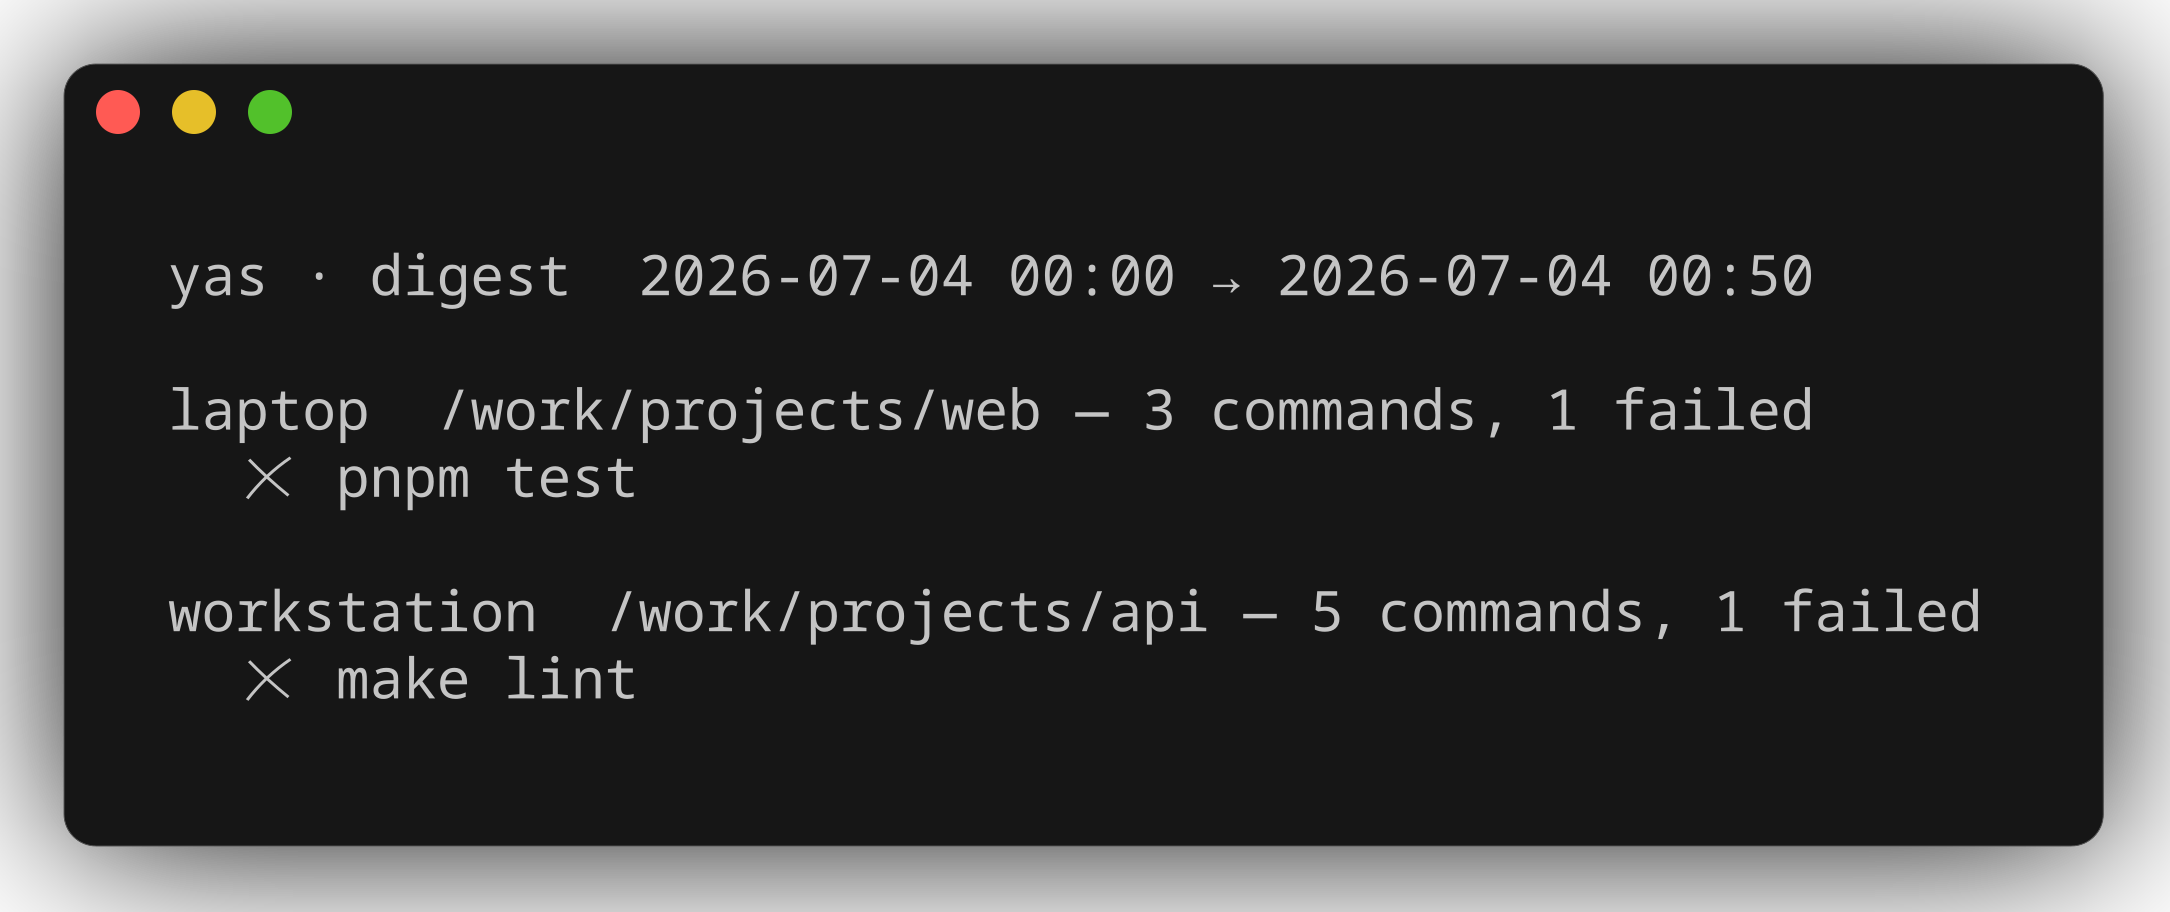
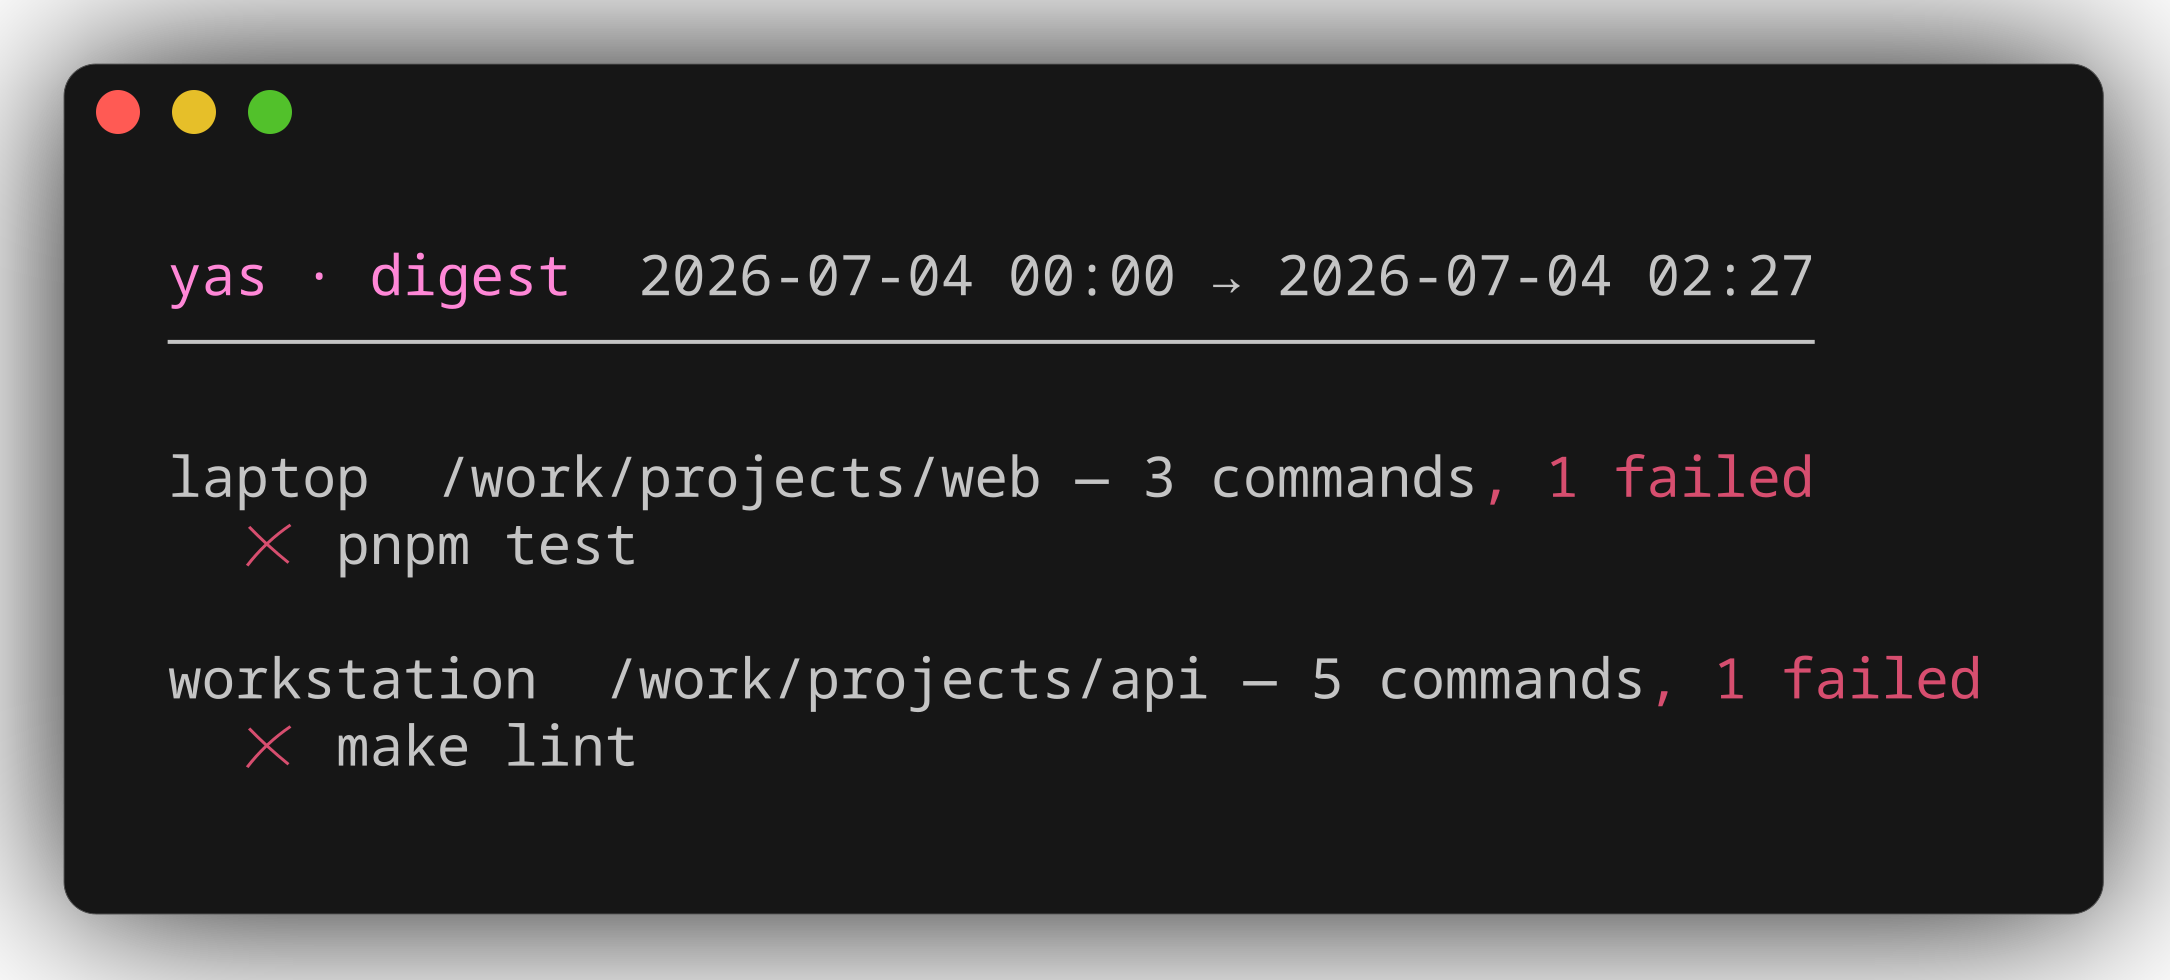
Colorize yas digest (red failures, accented title); README: MCP is shipped

diff --git a/cmd/yas/digest.go b/cmd/yas/digest.go
@@ -8,7 +8,10 @@ import (
 	"io"
 	"os"
 	"sort"
+	"strings"
 	"time"
+
+	"github.com/charmbracelet/lipgloss"
 
 	"github.com/mjacobs/yas/internal/record"
 	"github.com/mjacobs/yas/internal/store"
@@ -175,11 +178,12 @@ type digestGroupWire struct {
 }
 
 // renderDigest writes d to w: the JSON contract (asJSON) or a human summary.
-func renderDigest(w io.Writer, d Digest, asJSON bool) error {
+// styles color the human summary; it is ignored for JSON.
+func renderDigest(w io.Writer, d Digest, asJSON bool, styles cliStyles) error {
 	if asJSON {
 		return renderDigestJSON(w, d)
 	}
-	return renderDigestHuman(w, d)
+	return renderDigestHuman(w, d, styles)
 }
 
 // renderDigestJSON emits the digest envelope. Non-nil slices are built
@@ -210,27 +214,37 @@ func renderDigestJSON(w io.Writer, d Digest) error {
 
 // renderDigestHuman writes a readable grouped summary: a window header, then one
 // block per (host, cwd) with its count and (when any) failure count and the
-// sampled failing commands. An empty window prints a friendly line.
-func renderDigestHuman(w io.Writer, d Digest) error {
+// sampled failing commands. With color on it accents the title, dims the
+// path/counts, reds the failures, and adds a rule under the title; with color
+// off the output is byte-for-byte the plain text (every style is a passthrough
+// and the rule is omitted). An empty window prints a friendly line.
+func renderDigestHuman(w io.Writer, d Digest, styles cliStyles) error {
 	since := d.Since.Format(digestTimeLayout)
 	until := d.Until.Format(digestTimeLayout)
 	if len(d.Groups) == 0 {
 		_, err := fmt.Fprintf(w, "yas digest: no commands from %s to %s\n", since, until)
 		return err
 	}
-	if _, err := fmt.Fprintf(w, "yas · digest  %s → %s\n", since, until); err != nil {
+	title := styles.accent.Render("yas · digest") + "  " + styles.dim.Render(since+" → "+until)
+	if _, err := fmt.Fprintln(w, title); err != nil {
 		return err
 	}
+	if styles.color {
+		if _, err := fmt.Fprintln(w, styles.dim.Render(strings.Repeat("─", lipgloss.Width(title)))); err != nil {
+			return err
+		}
+	}
 	for _, g := range d.Groups {
-		line := fmt.Sprintf("\n%s  %s — %d %s", g.Host, g.CWD, g.Count, plural(g.Count, "command", "commands"))
+		meta := styles.dim.Render(fmt.Sprintf("%s — %d %s", g.CWD, g.Count, plural(g.Count, "command", "commands")))
+		line := "\n" + g.Host + "  " + meta
 		if g.Failures > 0 {
-			line += fmt.Sprintf(", %d failed", g.Failures)
+			line += styles.fail.Render(fmt.Sprintf(", %d failed", g.Failures))
 		}
 		if _, err := fmt.Fprintln(w, line); err != nil {
 			return err
 		}
 		for _, c := range g.FailedCommands {
-			if _, err := fmt.Fprintf(w, "  ✗ %s\n", c); err != nil {
+			if _, err := fmt.Fprintf(w, "  %s %s\n", styles.fail.Render("✗"), c); err != nil {
 				return err
 			}
 		}
@@ -241,35 +255,36 @@ func renderDigestHuman(w io.Writer, d Digest) error {
 // parseDigestArgs parses `yas digest` flags against now: --since/--until
 // (RFC3339) and --json. The default window is today — local midnight of now
 // through now. It rejects an inverted window and any stray positional argument.
-func parseDigestArgs(args []string, now time.Time) (since, until time.Time, asJSON bool, err error) {
+func parseDigestArgs(args []string, now time.Time) (since, until time.Time, asJSON, noColor bool, err error) {
 	fs := flag.NewFlagSet("digest", flag.ContinueOnError)
 	fs.SetOutput(io.Discard)
 	sinceStr := fs.String("since", "", "window start, inclusive (RFC3339); default: local midnight today")
 	untilStr := fs.String("until", "", "window end, exclusive (RFC3339); default: now")
 	jsonOut := fs.Bool("json", false, "emit the JSON digest contract instead of the human summary")
+	noColorOut := fs.Bool("no-color", false, "disable colorized output")
 	if perr := fs.Parse(args); perr != nil {
-		return time.Time{}, time.Time{}, false, perr
+		return time.Time{}, time.Time{}, false, false, perr
 	}
 	if fs.NArg() > 0 {
-		return time.Time{}, time.Time{}, false, fmt.Errorf("digest takes no positional arguments; got %q", fs.Arg(0))
+		return time.Time{}, time.Time{}, false, false, fmt.Errorf("digest takes no positional arguments; got %q", fs.Arg(0))
 	}
 
 	since = startOfDay(now)
 	if *sinceStr != "" {
 		if since, err = time.Parse(time.RFC3339, *sinceStr); err != nil {
-			return time.Time{}, time.Time{}, false, fmt.Errorf("invalid --since %q: want RFC3339 (e.g. 2006-01-02T15:04:05Z)", *sinceStr)
+			return time.Time{}, time.Time{}, false, false, fmt.Errorf("invalid --since %q: want RFC3339 (e.g. 2006-01-02T15:04:05Z)", *sinceStr)
 		}
 	}
 	until = now
 	if *untilStr != "" {
 		if until, err = time.Parse(time.RFC3339, *untilStr); err != nil {
-			return time.Time{}, time.Time{}, false, fmt.Errorf("invalid --until %q: want RFC3339 (e.g. 2006-01-02T15:04:05Z)", *untilStr)
+			return time.Time{}, time.Time{}, false, false, fmt.Errorf("invalid --until %q: want RFC3339 (e.g. 2006-01-02T15:04:05Z)", *untilStr)
 		}
 	}
 	if until.Before(since) {
-		return time.Time{}, time.Time{}, false, fmt.Errorf("--until %s is before --since %s", until.Format(time.RFC3339), since.Format(time.RFC3339))
+		return time.Time{}, time.Time{}, false, false, fmt.Errorf("--until %s is before --since %s", until.Format(time.RFC3339), since.Format(time.RFC3339))
 	}
-	return since, until, *jsonOut, nil
+	return since, until, *jsonOut, *noColorOut, nil
 }
 
 // startOfDay returns local midnight of t (in t's own location).
@@ -282,11 +297,12 @@ func startOfDay(t time.Time) time.Time {
 // the window from the local replica (like the other CLI commands), builds the
 // deterministic per-(host, cwd) digest, and renders it.
 func cmdDigest(args []string) {
-	since, until, asJSON, err := parseDigestArgs(args, time.Now())
+	since, until, asJSON, noColor, err := parseDigestArgs(args, time.Now())
 	if err != nil {
 		fmt.Fprintln(os.Stderr, "yas digest:", err)
 		os.Exit(2)
 	}
+	styles := newCLIStyles(!noColor && colorTerminal(os.Stdout))
 	st, _, closeStore := openStore()
 	defer closeStore()
 
@@ -302,7 +318,7 @@ func cmdDigest(args []string) {
 		fmt.Fprintln(os.Stderr, "yas digest:", err)
 		os.Exit(1)
 	}
-	if err := renderDigest(os.Stdout, buildDigest(recs, since, until), asJSON); err != nil {
+	if err := renderDigest(os.Stdout, buildDigest(recs, since, until), asJSON, styles); err != nil {
 		fmt.Fprintln(os.Stderr, "yas digest:", err)
 		os.Exit(1)
 	}

diff --git a/cmd/yas/digest_test.go b/cmd/yas/digest_test.go
@@ -169,7 +169,7 @@ func TestRenderDigest_JSONEmptyIsBracketsNotNull(t *testing.T) {
 	d := buildDigest(nil, since, until)
 
 	var buf bytes.Buffer
-	if err := renderDigest(&buf, d, true); err != nil {
+	if err := renderDigest(&buf, d, true, newCLIStyles(false)); err != nil {
 		t.Fatal(err)
 	}
 	out := buf.String()
@@ -203,7 +203,7 @@ func TestRenderDigest_JSONStructureAndFailedCommandsBrackets(t *testing.T) {
 	d := buildDigest(recs, since, until)
 
 	var buf bytes.Buffer
-	if err := renderDigest(&buf, d, true); err != nil {
+	if err := renderDigest(&buf, d, true, newCLIStyles(false)); err != nil {
 		t.Fatal(err)
 	}
 	// A group with no failures must still emit failed_commands: [] (never null).
@@ -235,7 +235,7 @@ func TestRenderDigest_HumanEmpty(t *testing.T) {
 	d := buildDigest(nil, since, until)
 
 	var buf bytes.Buffer
-	if err := renderDigest(&buf, d, false); err != nil {
+	if err := renderDigest(&buf, d, false, newCLIStyles(false)); err != nil {
 		t.Fatal(err)
 	}
 	if !strings.Contains(buf.String(), "no commands") {
@@ -254,7 +254,7 @@ func TestRenderDigest_Human(t *testing.T) {
 	d := buildDigest(recs, since, until)
 
 	var buf bytes.Buffer
-	if err := renderDigest(&buf, d, false); err != nil {
+	if err := renderDigest(&buf, d, false, newCLIStyles(false)); err != nil {
 		t.Fatal(err)
 	}
 	out := buf.String()
@@ -265,10 +265,39 @@ func TestRenderDigest_Human(t *testing.T) {
 	}
 }
 
+// With color on the human digest carries ANSI escapes (the accented title, the
+// red failure count and ✗); with color off it stays plain. The failing command
+// text is present either way. Mirrors the search color tests.
+func TestRenderDigest_HumanColor(t *testing.T) {
+	base := time.Date(2026, 7, 2, 10, 0, 0, 0, time.UTC)
+	since := time.Date(2026, 7, 2, 0, 0, 0, 0, time.UTC)
+	until := time.Date(2026, 7, 3, 0, 0, 0, 0, time.UTC)
+	d := buildDigest([]record.Record{
+		drec("host-a", "/proj", "make lint", ptr(1), base),
+	}, since, until)
+
+	var plain, color bytes.Buffer
+	if err := renderDigest(&plain, d, false, newCLIStyles(false)); err != nil {
+		t.Fatal(err)
+	}
+	if err := renderDigest(&color, d, false, newCLIStyles(true)); err != nil {
+		t.Fatal(err)
+	}
+	if strings.Contains(plain.String(), "\x1b[") {
+		t.Fatalf("plain digest must not contain ANSI escapes:\n%q", plain.String())
+	}
+	if !strings.Contains(color.String(), "\x1b[") {
+		t.Fatalf("colored digest should contain ANSI escapes:\n%q", color.String())
+	}
+	if !strings.Contains(plain.String(), "make lint") || !strings.Contains(color.String(), "make lint") {
+		t.Fatalf("digest must keep the failing command text:\nplain=%q\ncolor=%q", plain.String(), color.String())
+	}
+}
+
 func TestParseDigestArgs_DefaultWindowIsToday(t *testing.T) {
 	now := time.Date(2026, 7, 2, 14, 30, 45, 0, time.Local)
 
-	since, until, asJSON, err := parseDigestArgs(nil, now)
+	since, until, asJSON, _, err := parseDigestArgs(nil, now)
 	if err != nil {
 		t.Fatal(err)
 	}
@@ -287,7 +316,7 @@ func TestParseDigestArgs_DefaultWindowIsToday(t *testing.T) {
 func TestParseDigestArgs_ExplicitWindowAndJSON(t *testing.T) {
 	now := time.Date(2026, 7, 2, 14, 0, 0, 0, time.UTC)
 
-	since, until, asJSON, err := parseDigestArgs(
+	since, until, asJSON, _, err := parseDigestArgs(
 		[]string{"--since", "2026-07-01T00:00:00Z", "--until", "2026-07-02T00:00:00Z", "--json"}, now)
 	if err != nil {
 		t.Fatal(err)
@@ -312,7 +341,7 @@ func TestParseDigestArgs_Errors(t *testing.T) {
 		"stray operand": {"extra-arg"},
 	}
 	for name, args := range cases {
-		if _, _, _, err := parseDigestArgs(args, now); err == nil {
+		if _, _, _, _, err := parseDigestArgs(args, now); err == nil {
 			t.Fatalf("%s: expected an error for args %v", name, args)
 		}
 	}

diff --git a/README.md b/README.md
@@ -5,7 +5,7 @@
 **A queryable record of everything you run.** yas is a **local-first**
 _execution substrate_: it records every command you run into a fast local
 database, syncs it to a small central server, and exposes the data through a
-stable **HTTP+JSON API** (an MCP surface is on the roadmap) so you can bring —
+stable **HTTP+JSON API** (plus a read-only **MCP** surface for agents) so you can bring —
 or write — _any_ front-end: a CLI, `fzf`, a web dashboard, or a coding agent.
 The richness, and the product itself, is the data and the contract, not a
 bespoke interface. yas runs **no UI and no model of its own** — reasoning
@@ -310,10 +310,10 @@ any later live write). No CRDT needed.
 ## Status & roadmap
 
 **Working today:** live zsh capture, local FTS5 search, session views,
-sync to a central Postgres, the `/v1` query API, MCP access for agents
-(including the first curated `failure_summary` rollup and `how_did_i_run`
-recall verbs), zsh-history/atuin import, and static cross-compiled release
-builds.
+sync to a central Postgres, the `/v1` query API, the `yas digest` cross-stream
+synthesis, MCP access for agents (including the first curated `failure_summary`
+rollup and `how_did_i_run` recall verbs), zsh-history/atuin import, and static
+cross-compiled release builds.
 
 **Next:** cross-tool correlation — populating the reserved `corr_id` field so
 a recorded command can join to the agent session that ran it — and further